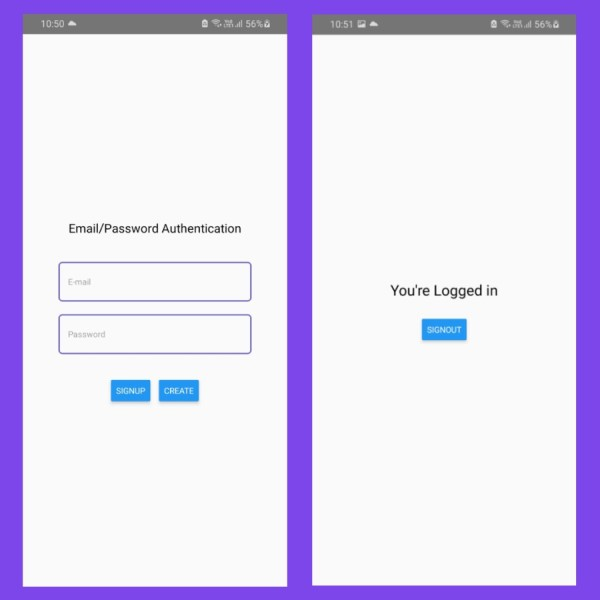
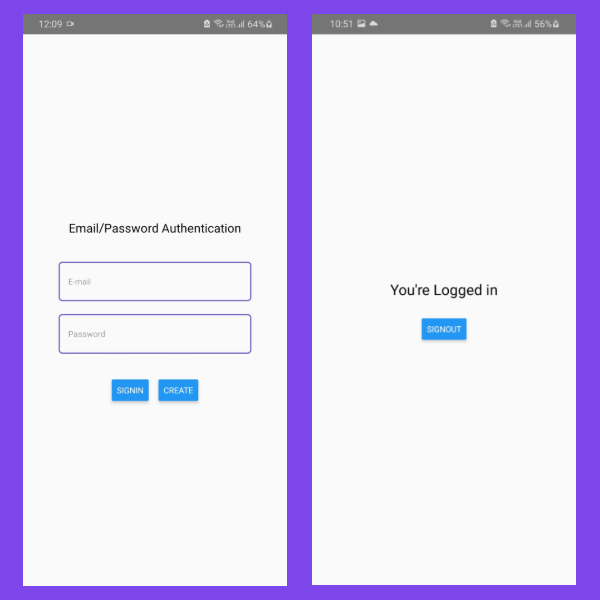
Add Images

diff --git a/articles/react-native-firebase-email-authentication/index.md b/articles/react-native-firebase-email-authentication/index.md
@@ -48,7 +48,7 @@ This will be the folder structure of the application.
 
 I've set up 2 screens in the `screens/` directory:
 
-- _Authentication.js_: Screen to login or create account.
+- _Authentication.js_: Screen to signin or create account.
 
 - _Authenticated.js_: Screen that the user can see only if he is logged in.
 
@@ -149,7 +149,7 @@ auth().createUserWithEmailAndPassword('johndoe@gmail.com', 'helloworld123');
 
 This will create a new user in the Firebase app with the email ID `johndoe@gmail.com` and his respective password. Two users in the same application can't have the same email ID.
 
-This function will also login the user into the application after creating an user account.
+This function will also signin the user into the application after creating an user account.
 
 In the *App.js*, Let's import the `auth` module.
 
@@ -231,7 +231,7 @@ Let's write a function that will accept an email and a password and call the `si
 The `signInWithEmailAndPassword` is an asynchronous function.
 
 ```JSX
-const login = (email, password) => {
+const signin = (email, password) => {
   try {
     auth().signInWithEmailAndPassword(email, password);
   } catch (error) {
@@ -243,16 +243,18 @@ const login = (email, password) => {
 Now, Let's pass this function to the *Authentication* screen.
 
 ```JSX
-return <Authentication login={login} createUser={createUser} />;
+return <Authentication signin={signin} createUser={createUser} />;
 ```
 
-When the user presses the *login* button, we should call this function. We should pass the email and the password from the state to this function when it is called.
+When the user presses the *signin* button, we should call this function. We should pass the email and the password from the state to this function when it is called.
 
 ```JSX
-<Button title="Login" onPress={() => props.login(email, password)} />
+<Button title="signin" onPress={() => props.signin(email, password)} />
 ```
 
-Now, when a user presses the *Login* button, the `signInWithEmailAndPassword` is called with the email and password, and this login the user into the app. If there is any error, we'll display it to the user using `alert()`.
+Now, when a user presses the *signin* button, the `signInWithEmailAndPassword` is called with the email and password, and this signin the user into the app. If there is any error, we'll display it to the user using `alert()`.
+
+![Signin](signin.gif)
 
 ### Signout
 
@@ -284,6 +286,8 @@ auth().onAuthStateChanged((user) => {
 })
 ```
 
+![Signout](signout.gif)
+
 ### Let's Recap
 
 1. We set up our development environment and created a React Native app.
@@ -300,7 +304,7 @@ auth().onAuthStateChanged((user) => {
 
 7. We created a state to track the authentication state of the user and used the `onAuthStateChanged` handler to update the state.
 
-8. We added a function to log in a user with the `signInWithEmailAndPassword` method from the `auth` module.
+8. We added a function to signin a user with the `signInWithEmailAndPassword` method from the `auth` module.
 
 9. We used the `auth` module to sign out the user from the application from the *Authenticated* screen.
 
